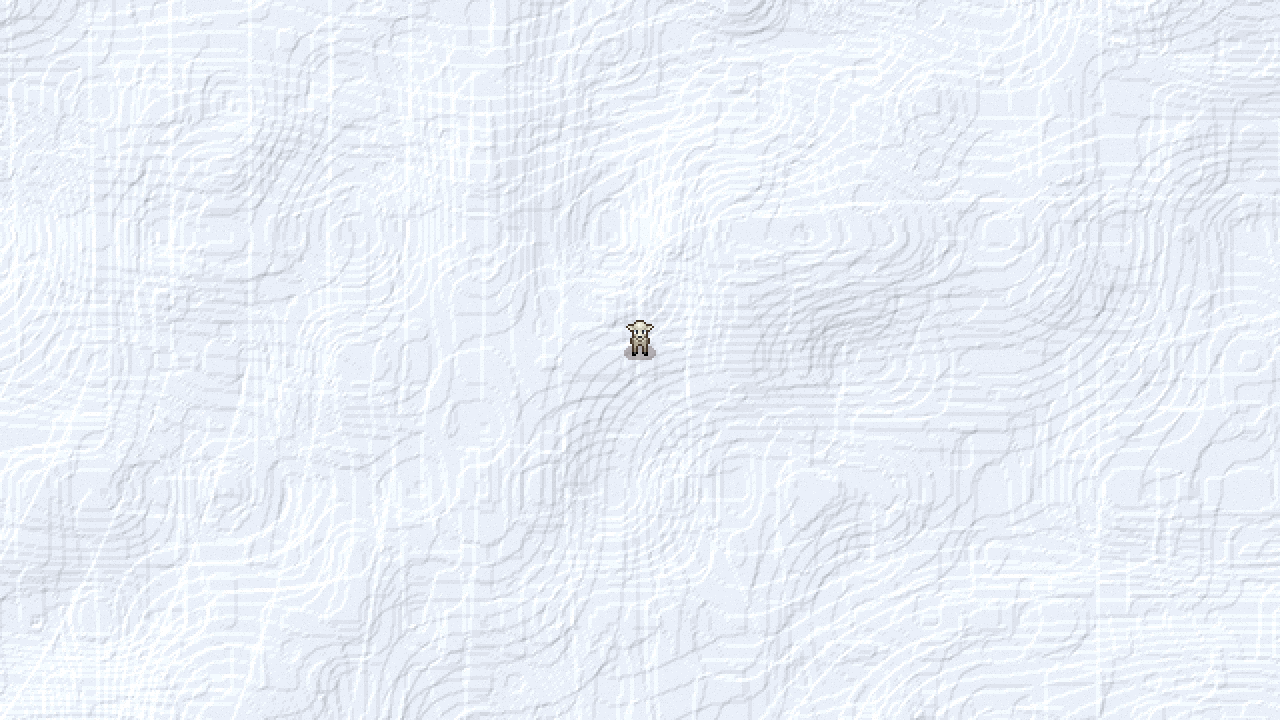
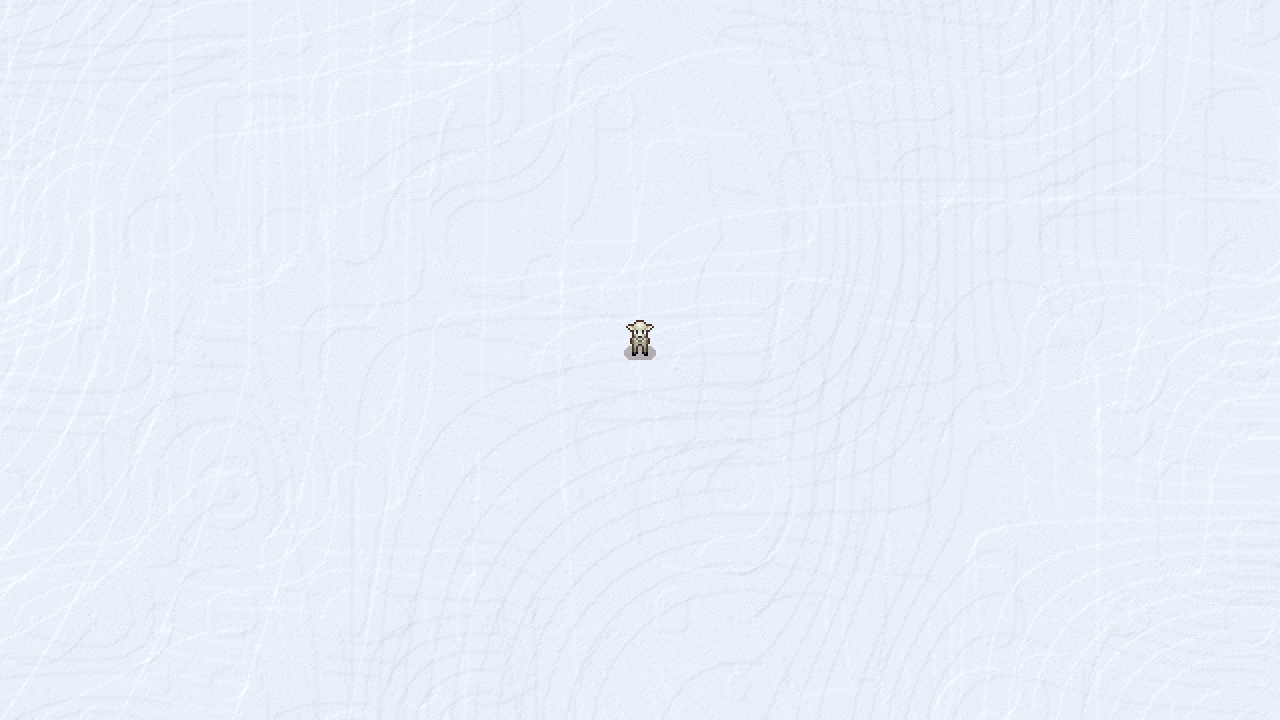
feat(nd): tone down emboss relief, bridge octave gap, and share LOD 1 field chunks

diff --git a/mods/nd/ux/nd_lamina.c b/mods/nd/ux/nd_lamina.c
@@ -573,7 +573,7 @@ void nd_lamina_render_map_live(uint32_t *fb, uint32_t w, uint32_t h,
 				uint32_t tile_col = shade(ansi_rgb(tile->bg & 7), amb, 255);
 				fill_rect(fb, w, h, tx, ty, (int)tile_sz, (int)tile_sz, tile_col);
 			} else {
-				/* Wilderness: render directly from the continuous high-resolution field (lod 1) */
+				/* Wilderness: render directly from shared field chunk cache (lod 1) */
 				int16_t room_pos[4] = {
 					(int16_t)(map->pos[0] + (int)x - (int)map->player_x),
 					(int16_t)(map->pos[1] - ((int)y - (int)map->player_y)),
@@ -584,22 +584,31 @@ void nd_lamina_render_map_live(uint32_t *fb, uint32_t w, uint32_t h,
 				int32_t oy = -(int32_t)room_pos[1] * 128;
 				uint16_t world = (uint16_t)room_pos[3];
 
+				const nd_field_chunk_t *fchunk = nd_seven_field_chunk_get(world, ox, oy);
 				uint32_t blk = (tile_sz >= 24) ? 4 : (tile_sz >= 16 ? 2 : 1);
+
 				for (uint32_t py = 0; py < tile_sz; py += blk) {
 					uint32_t bh = (py + blk <= tile_sz) ? blk : (tile_sz - py);
-					int32_t wy = oy + ((int)(py + bh / 2) * 128) / (int)tile_sz;
+					int sc_y = ((int)(py + bh / 2) * 8) / (int)tile_sz;
+					if (sc_y > 7) sc_y = 7;
 					for (uint32_t px = 0; px < tile_sz; px += blk) {
 						uint32_t bw = (px + blk <= tile_sz) ? blk : (tile_sz - px);
-						int32_t wx = ox + ((int)(px + bw / 2) * 160) / (int)tile_sz;
-						nd_field_sample_t s = nd_field_sample(world, 1, wx, wy);
+						int sc_x = ((int)(px + bw / 2) * 10) / (int)tile_sz;
+						if (sc_x > 9) sc_x = 9;
+
+						size_t sidx = (size_t)sc_y * 10 + sc_x;
+						uint8_t d = (fchunk && fchunk->depth) ? fchunk->depth[sidx] : 0;
 						uint32_t col;
-						if (s.depth > 0) {
-							col = water_color_at_depth(s.depth > 28 ? 28 : s.depth, 128, 128, 128);
+						if (d > 0) {
+							col = water_color_at_depth(d > 28 ? 28 : d, 128, 128, 128);
 						} else {
-							uint32_t col1 = ndw_biome_base_rgb(s.bio);
-							uint32_t col2 = ndw_biome_base_rgb(s.bio2 ? s.bio2 : s.bio);
-							col = (s.blend > 0 && s.bio2 != s.bio) ?
-							      alpha_blend_rgb(col1, col2, (s.blend * 255) / 128) : col1;
+							uint8_t bio = (fchunk && fchunk->bio) ? fchunk->bio[sidx] : 0;
+							uint8_t bio2 = (fchunk && fchunk->bio2) ? fchunk->bio2[sidx] : bio;
+							uint8_t blend = (fchunk && fchunk->blend) ? fchunk->blend[sidx] : 0;
+							uint32_t col1 = ndw_biome_base_rgb(bio);
+							uint32_t col2 = ndw_biome_base_rgb(bio2);
+							col = (blend > 0 && bio2 != bio) ?
+							      alpha_blend_rgb(col1, col2, (blend * 255) / 128) : col1;
 						}
 						fill_rect(fb, w, h, tx + (int)px, ty + (int)py, (int)bw, (int)bh, shade(col, amb, 255));
 					}

diff --git a/mods/nd/ux/nd_seven_ground.c b/mods/nd/ux/nd_seven_ground.c
@@ -577,10 +577,32 @@ int nd_seven_pos_in_map(const int16_t pos[4], const nd_map_data_t *map)
 	return (col >= 0 && col < (int)map->width && row >= 0 && row < (int)map->height);
 }
 
+static nd_field_cache_t s_field_cache;
+static int s_field_cache_inited = 0;
+
+const nd_field_chunk_t *nd_seven_field_chunk_get(uint16_t world, int32_t ox, int32_t oy)
+{
+	if (!s_field_cache_inited) {
+		nd_field_cache_init(&s_field_cache, 64, malloc, free);
+		s_field_cache_inited = 1;
+	}
+	const nd_field_chunk_t *c = nd_field_get(&s_field_cache, world, 1, ox, oy);
+	if (c) return c;
+
+	int slot = nd_field_request(&s_field_cache, world, 1, ox, oy, 10, 8);
+	if (slot >= 0) {
+		nd_field_pump(&s_field_cache, 1);
+		return nd_field_get(&s_field_cache, world, 1, ox, oy);
+	}
+	return NULL;
+}
+
 void nd_seven_ground_frame_begin(void)
 {
 	s_current_frame++;
 	if (s_current_frame == 0) s_current_frame = 1;
+	if (s_field_cache_inited)
+		nd_field_tick(&s_field_cache);
 }
 
 void nd_seven_ground_frame_end(const nd_map_data_t *map)
@@ -617,6 +639,10 @@ void nd_seven_ground_frame_end(const nd_map_data_t *map)
 
 void nd_seven_ground_cache_forget(void)
 {
+	if (s_field_cache_inited) {
+		nd_field_cache_destroy(&s_field_cache);
+		s_field_cache_inited = 0;
+	}
 	memset(s_border, 0, sizeof(s_border));
 	s_border_next = 0;
 	for (int b = 0; b < CHUNK_HASH_BUCKETS; b++) {
@@ -735,6 +761,8 @@ static nd_room_chunk_t *chunk_get_or_create(const int16_t pos[4],
 		int32_t ox = (int32_t)pos[0] * NDW_TILE_W;
 		int32_t oy = -(int32_t)pos[1] * NDW_TILE_H;
 		uint16_t world = (uint16_t)pos[3];
+		const nd_field_chunk_t *fchunk = nd_seven_field_chunk_get(world, ox, oy);
+		(void)fchunk;
 		int16_t w_level = nd_field_water_level(world);
 		int is_water_tile = (own && ((own->flags & NDW_F_WATER) || own->biome == 0 || ndw_is_water_ground(ndw_biome_style(own->biome).kind)));
 
@@ -825,10 +853,10 @@ static nd_room_chunk_t *chunk_get_or_create(const int16_t pos[4],
 
 				int dh_dx = (h_e - h_w);
 				int dh_dy = (h_s - h_n);
-				int shade_delta = (-dh_dx - dh_dy) * 12;
+				int shade_delta = (-dh_dx - dh_dy) * 4;
 				int shade_val = 256 + shade_delta;
-				if (shade_val < 160) shade_val = 160;
-				if (shade_val > 360) shade_val = 360;
+				if (shade_val < 208) shade_val = 208;
+				if (shade_val > 304) shade_val = 304;
 
 				/* Continuous substrate color from fs.bio, fs.bio2, fs.blend */
 				uint32_t col1 = ndw_biome_base_rgb(bio);

diff --git a/tests/unit/test_seven_render.c b/tests/unit/test_seven_render.c
@@ -194,9 +194,9 @@ int main(void)
 		int r = (int)(c & 0xFF), g = (int)((c >> 8) & 0xFF), b = (int)((c >> 16) & 0xFF);
 		assert(r < 50 && g < 100 && b > 100);
 
-		/* 2. Coastal transect in world 1 at (-18, -20) -> (-17, -20):
-		 * Terrain rises from submerged seabed (-8) to dry land (0..+3). */
-		set_map(-17, -20, 0, 0x1B, 0, 0, 0, 0);
+		/* 2. Coastal transect in world 1 at (-17, -20) -> (-16, -20):
+		 * Terrain rises from submerged seabed (-7) to dry land (0..+4). */
+		set_map(-16, -20, 0, 0x1B, 0, 0, 0, 0);
 		st.map_data.pos[3] = 1;
 		nd_seven_render(fb2, 1280, 720, &st);
 		dump("water_coastal", fb2, 1280, 720);
@@ -204,7 +204,7 @@ int main(void)
 		/* Along the transect approaching the shore, depth decreases monotonically */
 		int prev_d = 999;
 		int depths_seen = 0;
-		for (int wx = -18 * 160 + 64; wx <= -17 * 160 + 80; wx += 16) {
+		for (int wx = -17 * 160 + 64; wx <= -16 * 160 + 80; wx += 16) {
 			nd_field_sample_t s = nd_field_sample(1, 3, wx, -(-20) * 128 + 64);
 			assert(s.depth <= prev_d);
 			prev_d = s.depth;
@@ -223,7 +223,7 @@ int main(void)
 		assert(c_land != c_shallow);
 
 		/* Underwater substrate displays authentic biomes */
-		nd_field_sample_t s_under = nd_field_sample(1, 3, -18 * 160, -(-20) * 128 + 64);
+		nd_field_sample_t s_under = nd_field_sample(1, 3, -17 * 160, -(-20) * 128 + 64);
 		assert(s_under.depth > 0);
 		assert(s_under.bio != 0); /* authentic substrate under water */
 	}

diff --git a/external/nd-world/include/nd/field.h b/external/nd-world/include/nd/field.h
@@ -73,18 +73,18 @@ static const octave_t ND_FIELD_COARSE_TM_OCTAVES[] = {
 };
 #define ND_FIELD_COARSE_TM_COUNT (sizeof(ND_FIELD_COARSE_TM_OCTAVES)/sizeof(ND_FIELD_COARSE_TM_OCTAVES[0]))
 
-/* Fine client octave specifications (shifts in world units: 128, 64, 32, 16, 8) */
+/* Fine client octave specifications (shifts in world units: 256, 128, 64, 32, 16) */
 typedef struct {
 	uint8_t shift;
 	int16_t amp;
 } nd_field_fine_octave_t;
 
 static const nd_field_fine_octave_t ND_FIELD_FINE_OCTAVES[] = {
-	{ 7, 14 },
-	{ 6,  8 },
-	{ 5,  4 },
-	{ 4,  2 },
-	{ 3,  1 },
+	{ 8, 14 },
+	{ 7,  8 },
+	{ 6,  4 },
+	{ 5,  2 },
+	{ 4,  1 },
 };
 #define ND_FIELD_FINE_COUNT (sizeof(ND_FIELD_FINE_OCTAVES)/sizeof(ND_FIELD_FINE_OCTAVES[0]))
 #define ND_FIELD_FINE_AMP_BUDGET 29

diff --git a/mods/nd/ux/nd_seven_ground.h b/mods/nd/ux/nd_seven_ground.h
@@ -4,6 +4,7 @@
 #include <stdint.h>
 #include <stddef.h>
 #include <nd/seven-world.h>
+#include <nd/field.h>
 #include "nd/bcp.h"
 
 #ifndef SCALE
@@ -50,6 +51,8 @@ int nd_seven_chunk_free_count(void);
 int nd_seven_pos_in_map(const int16_t pos[4], const nd_map_data_t *map);
 const nd_room_chunk_t *nd_seven_chunk_find(const int16_t pos[4]);
 const nd_room_chunk_t *nd_seven_chunk_ensure(const nd_map_data_t *map, int col, int row);
+
+const nd_field_chunk_t *nd_seven_field_chunk_get(uint16_t world, int32_t ox, int32_t oy);
 
 uint32_t water_color_at_depth(int depth, int r, int gg, int b);
 uint32_t ndw_biome_base_rgb(unsigned biome);
